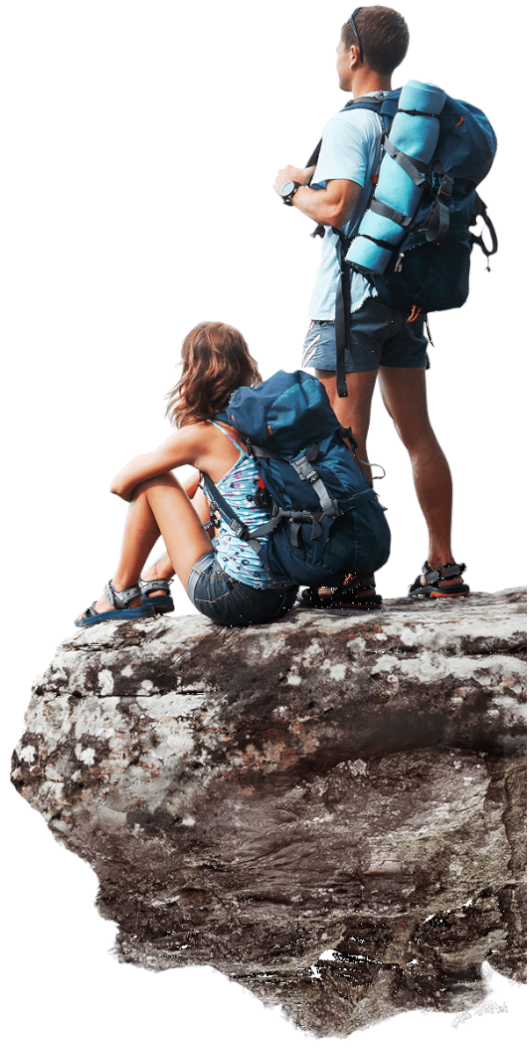
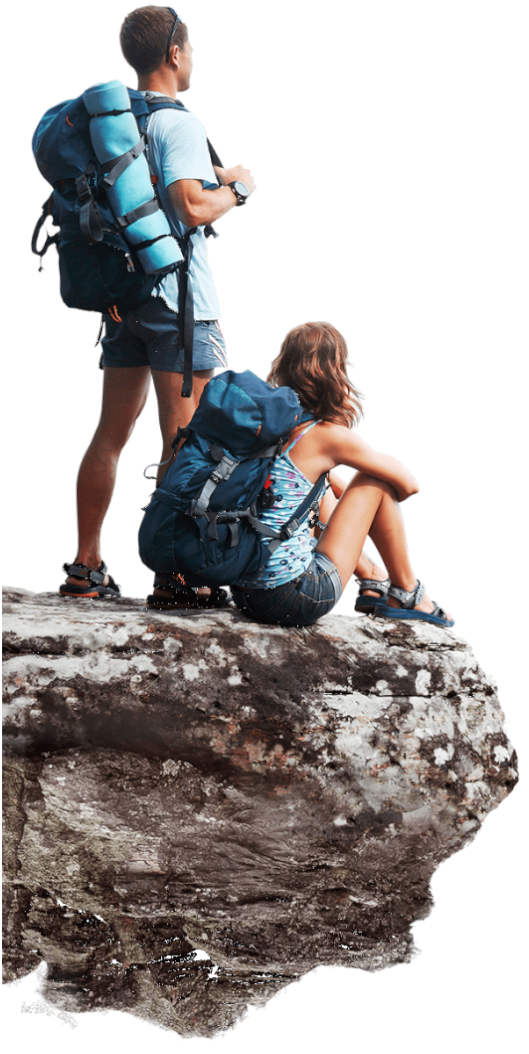
fixing img layers sizes in small devices and improving in big devices

diff --git a/style.css b/style.css
@@ -152,6 +152,7 @@ body {
     top: 50vh;
     left: 50vw;
     transform: translate(-50%, -50%);
+    text-align: center;
 }
 
 #first-layer{
@@ -160,8 +161,8 @@ body {
     width: 100%;
     background-image: url("img/adventurer.png");
     background-repeat: no-repeat;
-    background-size: 20%;
-    background-position-x: right;
+    background-size: 15vw;
+    background-position-x: left;
     background-position-y: 100%;
 }
 
@@ -227,6 +228,15 @@ body {
 
     .navigation input:checked~ #footer {
         display: none;
+    }
+
+    #mid-layer{
+        background-size: 200vh;
+    }
+    
+    #first-layer{
+        background-size: 15vh;
+
     }
 
 }
